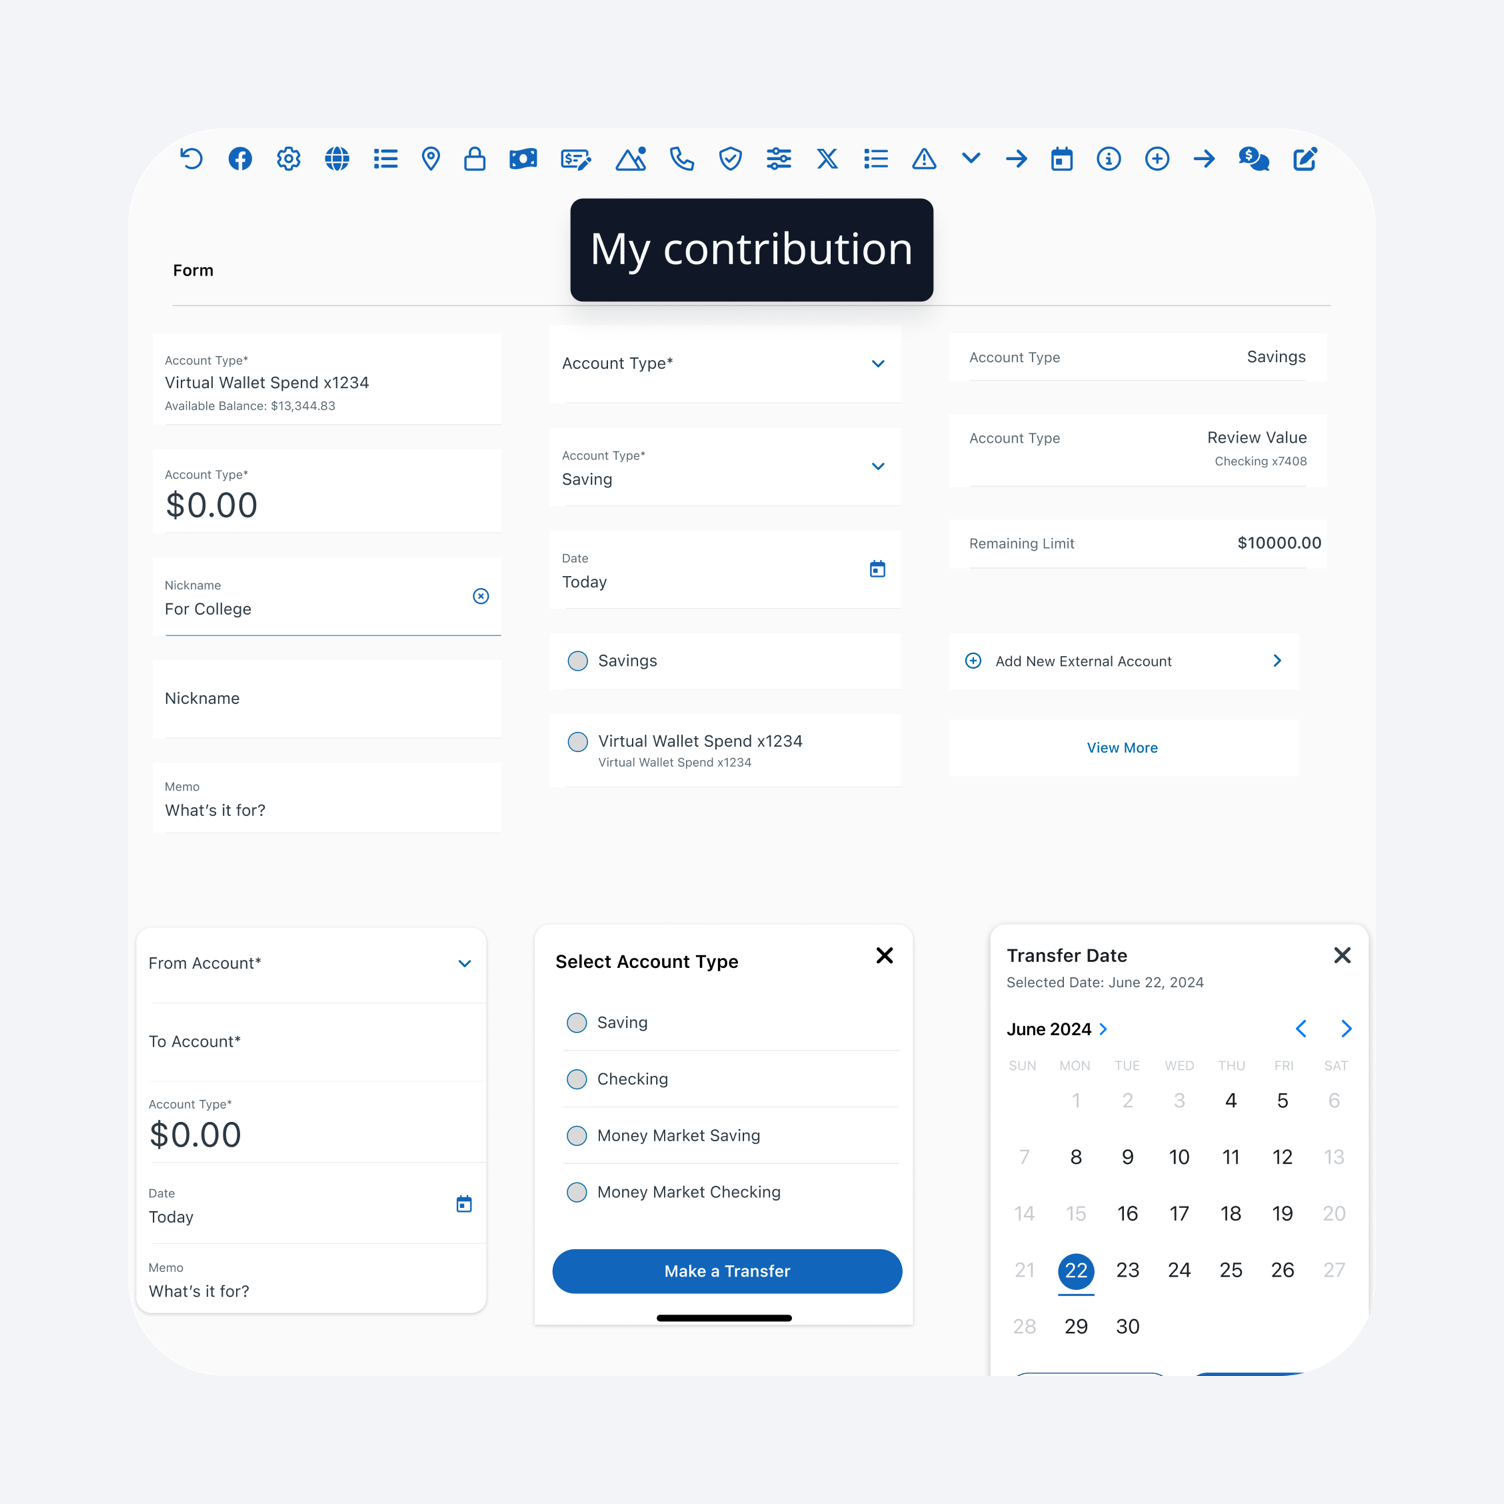
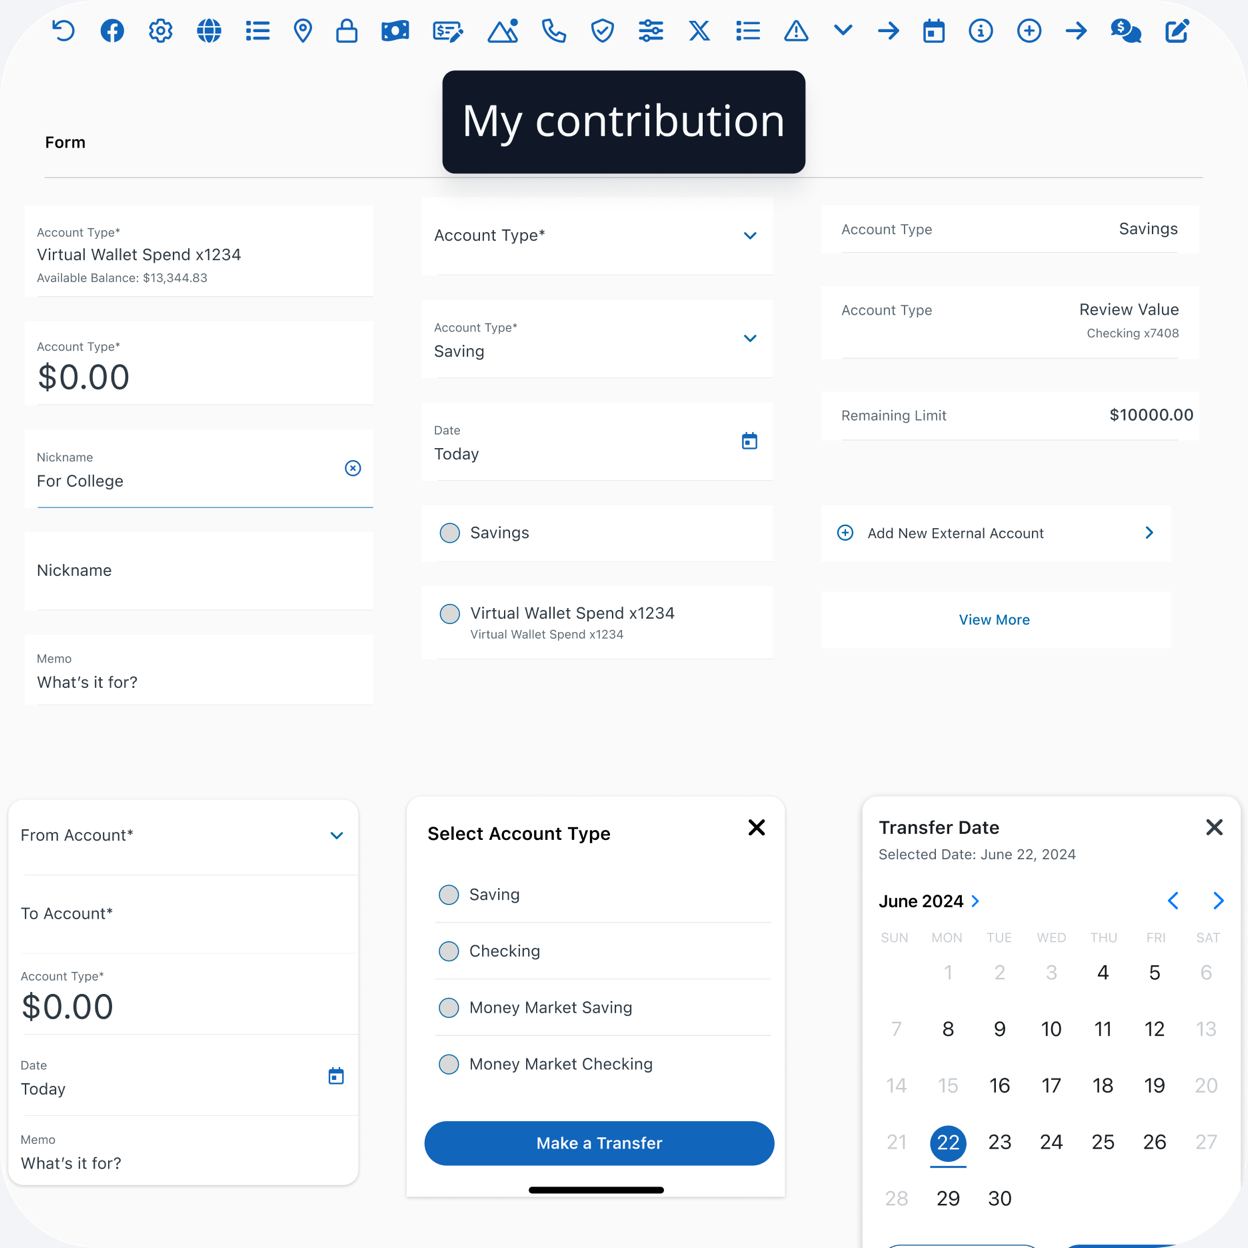
Match the AI-assisted design system image to Figma
Two corrections to this panel.

Figma had updated the asset behind image 148 — the URL changed, so the site was
serving a stale version. Re-pulled from 49:71732.

Figma places image 148 at 624x624 with no Background wrapper. An earlier pass
composited a 64px #f2f4f7 field around it, which inset the artwork and made the
panel 1504x1504 rather than 1248x1248. That padding was a deviation from the
design, not part of it, so it is gone and the image now fills its frame.

Side effect worth recording: this panel's own field is #fafafa, so it no longer
matches the #f2f4f7 used by its neighbours. That is what the design specifies.

diff --git a/app/work/external-transfer-mobile-redesign/page.tsx b/app/work/external-transfer-mobile-redesign/page.tsx
@@ -135,7 +135,10 @@ const OTHER: Block[] = [
   {
     title: "AI-assisted design system building",
     body: "I used AI to systematically stress-test our newly structured transaction fields — generating robust copy and data states for edge cases.",
-    images: [img("/projects/et-ai-fields.png", 1504, 1504)],
+    // Figma 232:34869 places image 148 at 624x624 with no Background wrapper,
+    // so it ships as-is at 2x. An earlier pass composited a 64px #f2f4f7 field
+    // around it; that was a deviation from the design and has been removed.
+    images: [img("/projects/et-ai-fields.png", 1248, 1248)],
   },
   {
     title: "QA testing",
